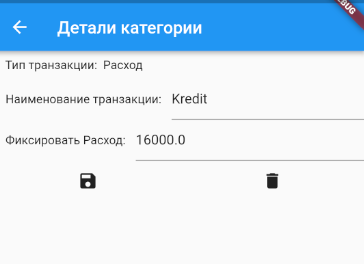
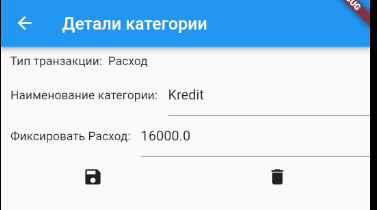
32

diff --git a/lib/ui/widgets/type_transaction/category_detail.dart b/lib/ui/widgets/type_transaction/category_detail.dart
@@ -43,7 +43,7 @@ class _CategoryDetailState extends State<CategoryDetail> {
               .paddingAll(),
           Row(
             children: [
-              const Text(' Наименование транзакции: ').paddingAll(),
+              const Text(' Наименование категории: ').paddingAll(),
               Expanded(child: TextField(controller: widget.textControllerName))
             ],
           ),

diff --git a/README.md b/README.md
@@ -18,9 +18,16 @@
 
 #
 ## Нажатием на кнопку с именем пользователя переходим в управление бюджетом пользователя. Здесь такие же отчеты как и на главном экране, только персональные расходы/доходы.
-## В категориях транзакций можно фиксировать личные доходы/расходы нажатием на надпись Нет ограничений или Личное ограничение 17000. Если расходы/доходы всех пользователей превышают ограничения на всю семью, то надпись Ограничение в семейном бюджете подсвечивается красным. При попытке создать транзакцию превышающую личную фиксацию расходов отображается предупреждение о невозможности такой транзакции и транзакция не произведется. Так же при сождании транзакции в диалоговом окне отображается сколько еще доступно потратить/получить в текущем месяце.
+## В категориях транзакций можно фиксировать личные доходы/расходы нажатием на надпись Нет ограничений или Личное ограничение 17000. Если расходы/доходы всех пользователей превышают ограничения на всю семью, то надпись Ограничение в семейном бюджете подсвечивается красным.
 #
+![Предупреждение об общем перелимите](https://github.com/Andrey253/familyBudget/blob/master/image/2022-06-17_17-29-40.png?raw=true "Предупреждение об общем перелимите")
 
+# При создании транзакции в диалоговом окне отображается сколько еще доступно потратить/получить в текущем месяце. При попытке создать транзакцию превышающую личную фиксацию расходов отображается предупреждение о невозможности такой транзакции и транзакция не производится. 
+#
+#
+![Предупреждение оперелимите](https://github.com/Andrey253/familyBudget/blob/master/image/2022-06-17_17-35-19.png?raw=true "Предупреждение о перелимите")
+
+# 
 #
 #
 #
